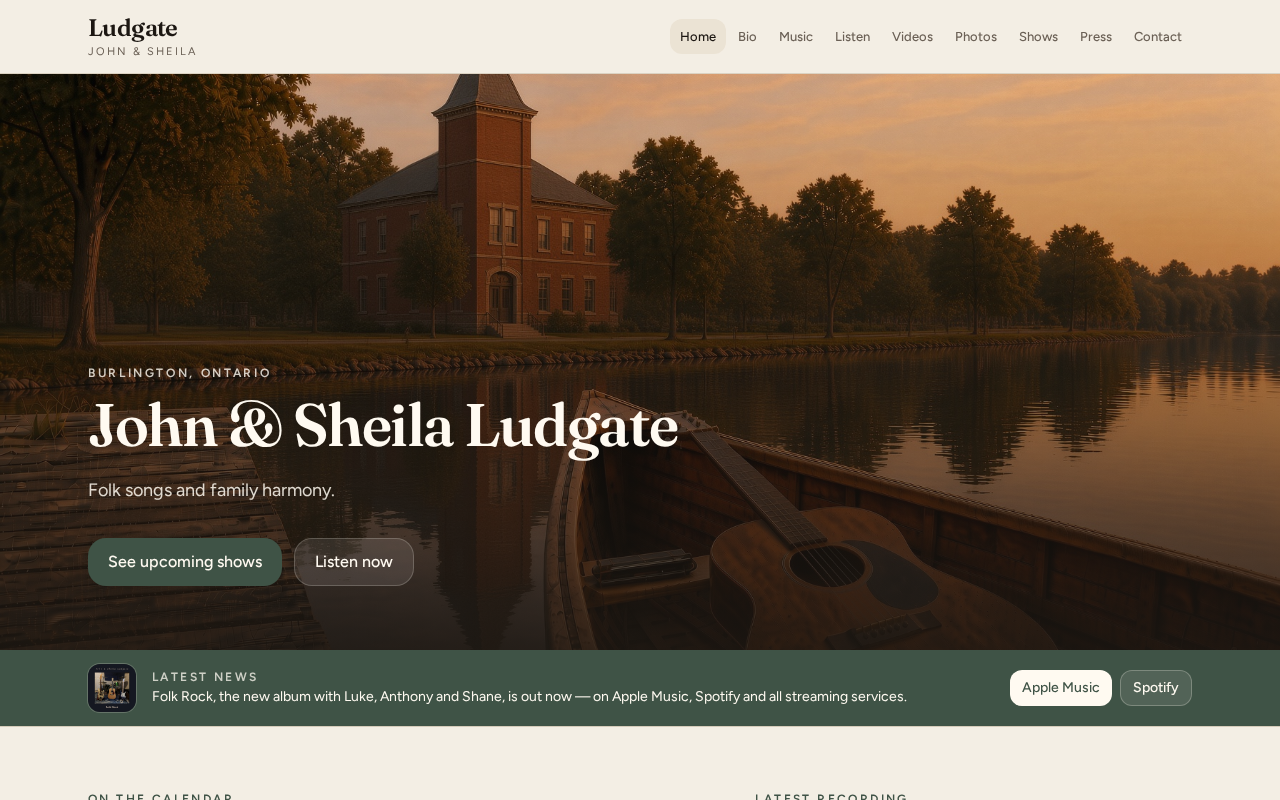
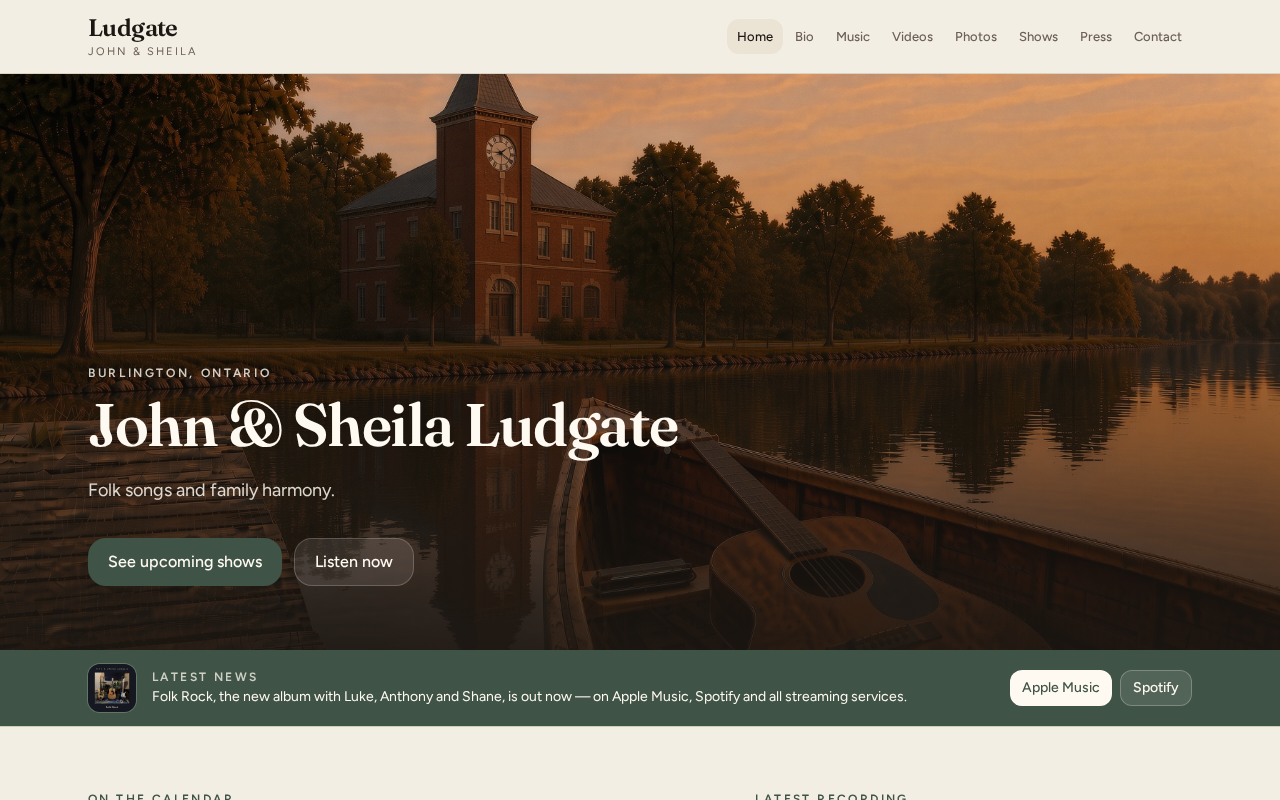
Export from Grok

diff --git a/src/routes/index.tsx b/src/routes/index.tsx
@@ -26,7 +26,7 @@ function Home() {
           <img
             src={heroMobile}
             alt="A guitar and harmonica on a canoe looking toward downtown Lakefield, Ontario"
-            className="absolute inset-0 h-full w-full object-cover object-[50%_62%] md:object-[48%_62%]"
+            className="absolute inset-0 h-full w-full object-cover object-[50%_70%] md:object-[52%_58%]"
           />
         </picture>
         <div className="absolute inset-0 bg-gradient-to-t from-ink/88 via-ink/35 to-ink/10" />
